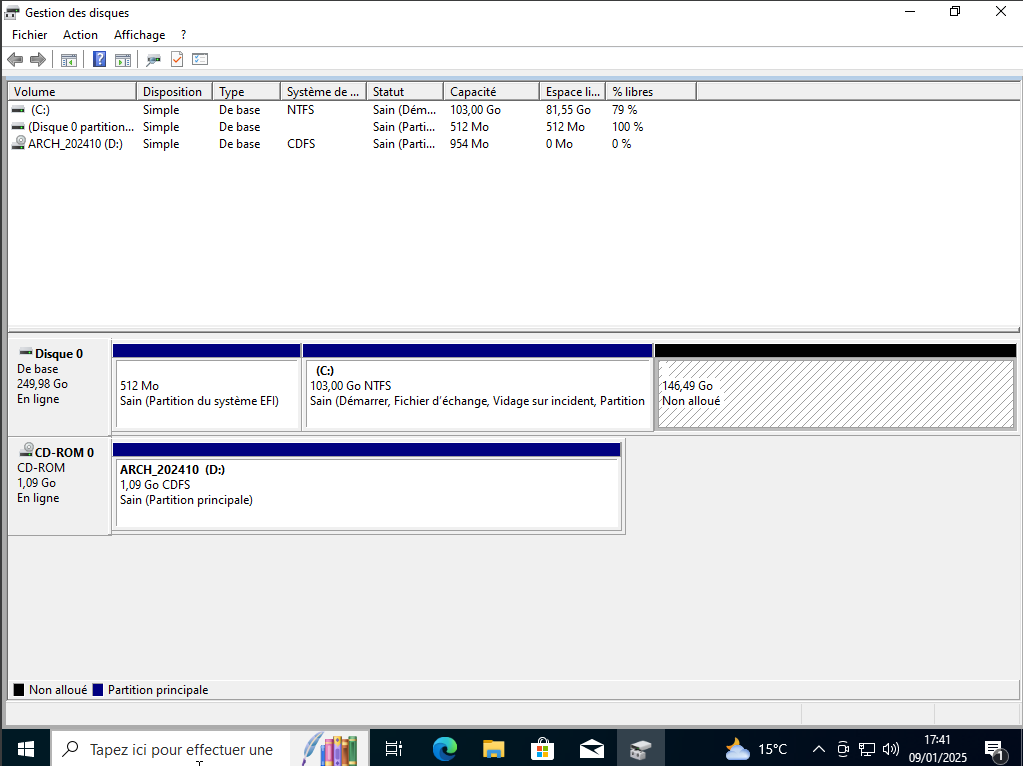
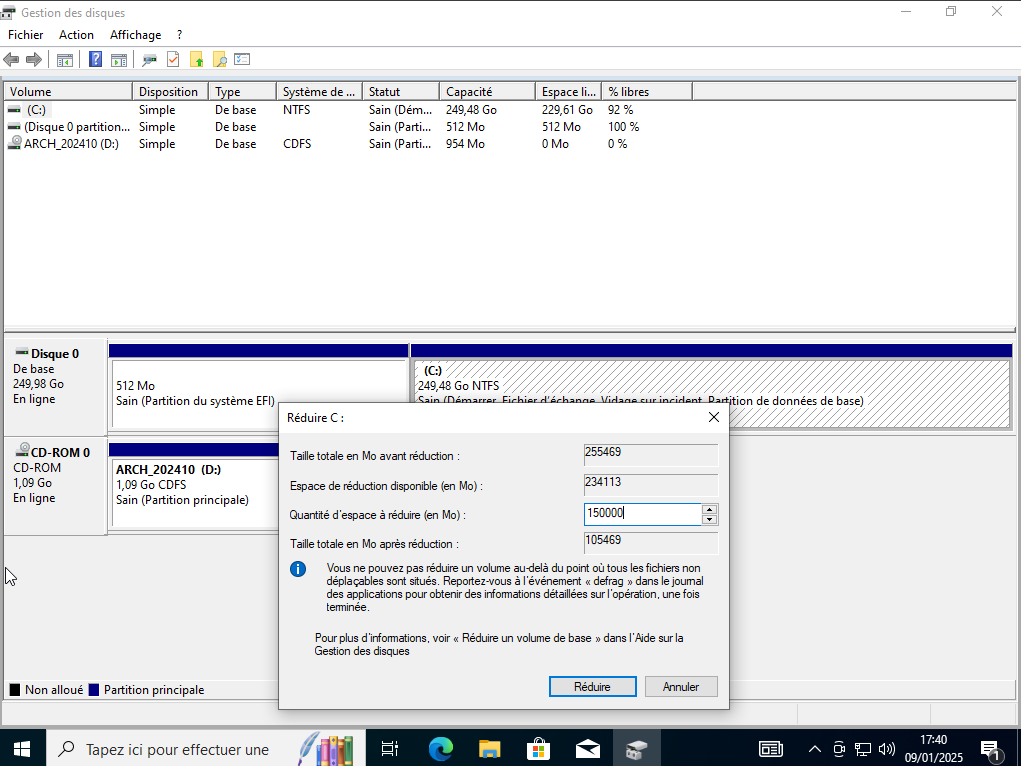
maj du projet

diff --git a/README.md b/README.md
@@ -162,9 +162,13 @@ Réduire le disque :
     Saisissez la quantité d’espace à libérer (en Mo) dans le champ correspondant. Par exemple, pour libérer 150 Go, entrez 150000 (1 Go = 1024 Mo).
     Cliquez sur Réduire.
 
+![image description](https://github.com/alexandre-Maury/arch-dboot/blob/main/assets/4.png)
+
 Créer un espace non alloué :
 
     Une fois la réduction effectuée, vous verrez une zone marquée Espace non alloué dans le Gestionnaire de disque. Cet espace sera utilisé pour installer Linux.
+
+![image description](https://github.com/alexandre-Maury/arch-dboot/blob/main/assets/5.png)
 
 ## Installation et configuration système :
 
